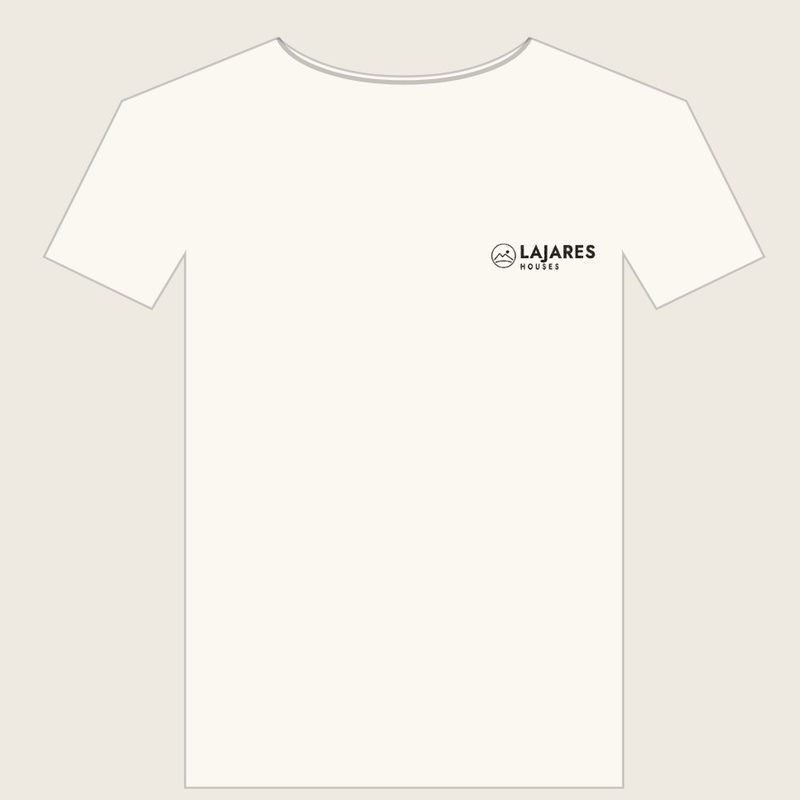
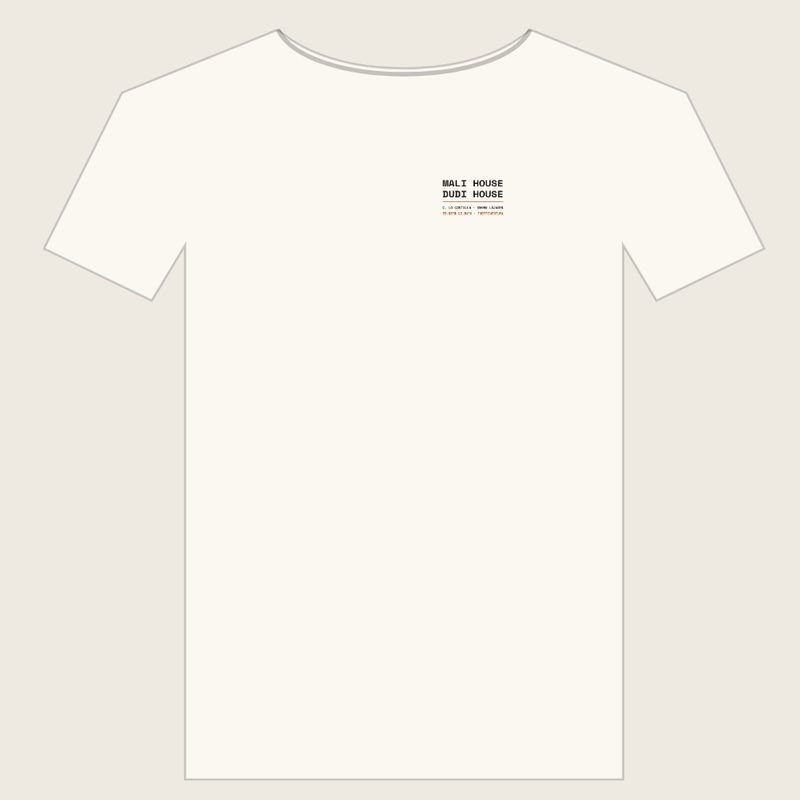
Shop: new Mali & Dudi chest prints on the front photos

diff --git a/assets/shop.js b/assets/shop.js
@@ -12,12 +12,12 @@
 
   const T = es ? {
     all: 'Todas', back: 'Espalda', front: 'Delante', price: 'Precio a consultar', design: 'Diseño',
-    colour: 'Color', frontRow: 'Delante', frontVal: 'Logo pequeño de Lajares Houses', priceRow: 'Precio', onReq: 'A consultar',
+    colour: 'Color', frontRow: 'Delante', frontVal: 'Mali House y Dudi House, en pequeño', priceRow: 'Precio', onReq: 'A consultar',
     marq: ['No se viene, se vuelve', 'Drop 01', 'Hecho en Lajares', 'North shore', 'Muy pronto'],
     body: (n, name) => `¡Hola! Me interesa la camiseta ${n} (${name}). Mi talla es: `
   } : {
     all: 'All', back: 'Back', front: 'Front', price: 'Price on request', design: 'Design',
-    colour: 'Colour', frontRow: 'Front', frontVal: 'Small Lajares Houses logo', priceRow: 'Price', onReq: 'On request',
+    colour: 'Colour', frontRow: 'Front', frontVal: 'Small Mali House & Dudi House print', priceRow: 'Price', onReq: 'On request',
     marq: ['No se viene, se vuelve', 'Drop 01', 'Made in Lajares', 'North shore', 'Coming soon'],
     body: (n, name) => `Hi! I'd like the tee ${n} (${name}). My size is: `
   };
